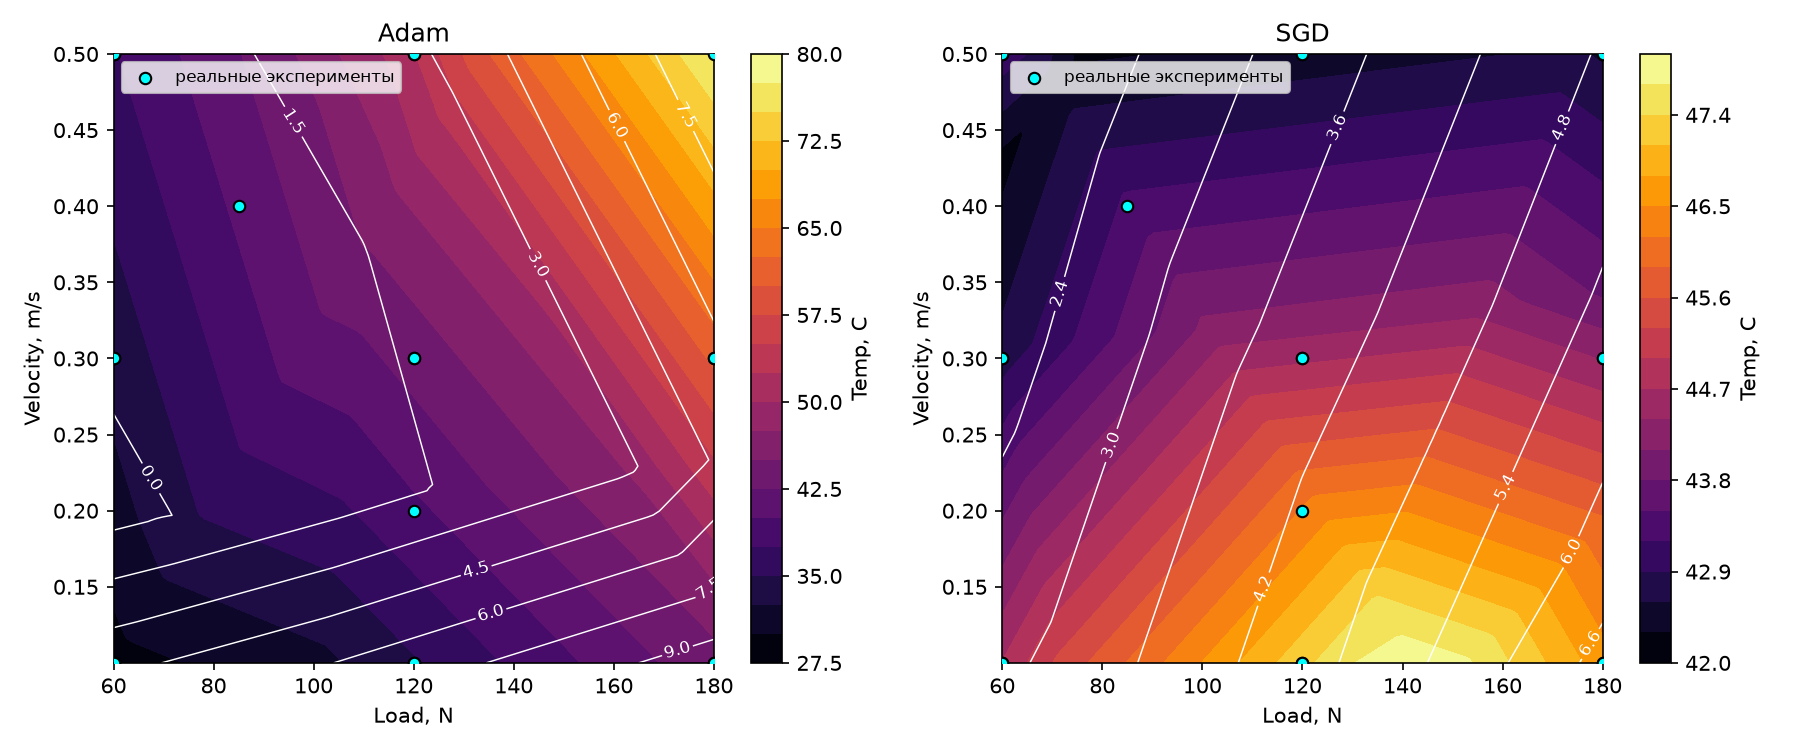
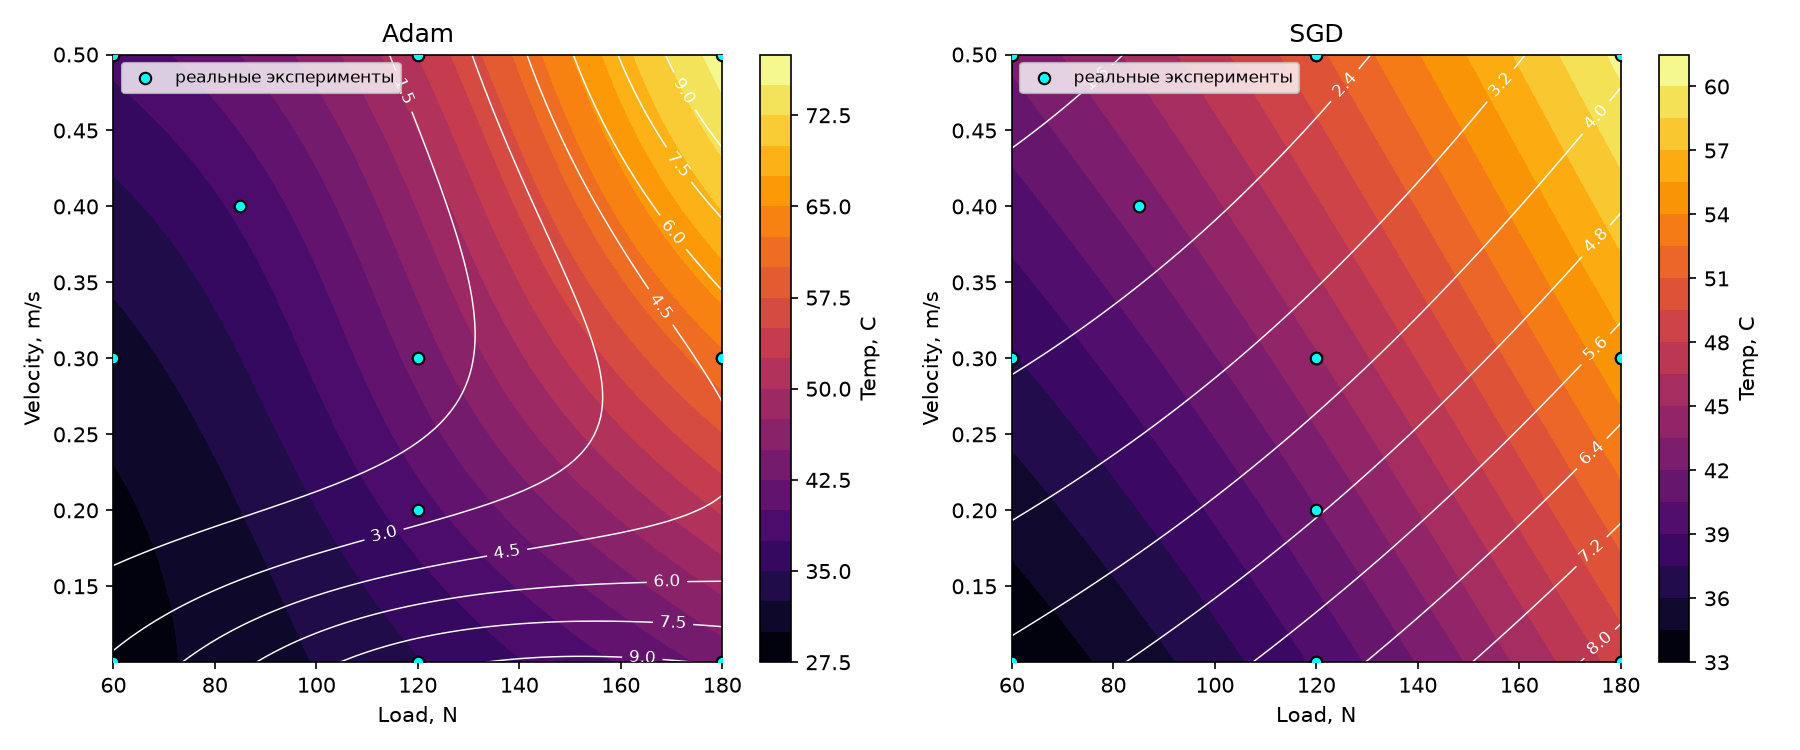
fixed architecture

diff --git a/friction.py b/friction.py
@@ -5,45 +5,60 @@ import matplotlib.pyplot as plt
 from data import X, Y
 from sklearn.model_selection import LeaveOneOut
 
+# правки:
+
+# добавил функцию активации на выходной слой нейронной сети, теперь сеть 
+# на выходе отдает числа в диапазоне [-1, 1]
+# что правильно для обратной нормализации
+
+# перевел индексы numpy в тензоры pytorch в валидации
+# зафиксировал seed при создании модели в цикле валидации
+
+# grid-norm неправильно нормализовывал данные (было [0,1])
+# а должно было быть [-1, 1] (потому что в X_norm [-1, 1])
+
+# (pred = ...): т.к. добавил функцию активации на выходной слой,
+# эта формула была неправильная (работала для [0, 1])
+
+# был перепутан LR в LOOCV (при создании модели был 0.01)
+# а при отрисовке графика LR был 0.05
+
+# добавил функцию для проверки точности сети в выбранной точке
+
+
+
+# исходные тензоры данных
 X_tensor = torch.tensor(X, dtype=torch.float32)
 Y_tensor = torch.tensor(Y, dtype=torch.float32)
 
-X_mean = X_tensor.mean(dim=0)
-X_std = X_tensor.std(dim=0, correction=0)
-
+# физические границы 
 X_normal = torch.tensor([[0, 0], [200, 0.6]])
 Y_normal = torch.tensor([[0, 24], [15, 100]])
 
+# экстремумы диапазонов
 min_val_P_V = X_normal.min(dim=0).values
 min_val_WR_T = Y_normal.min(dim=0).values
 
 max_val_P_V = X_normal.max(dim=0).values
 max_val_WR_T = Y_normal.max(dim=0).values
 
-X_norm = ((X_tensor - min_val_P_V) / (max_val_P_V - min_val_P_V))
-X_norm1 = X_norm * (max_val_P_V - min_val_P_V) + min_val_P_V
-
-print(X_norm)
-print(X_norm1)
-
-Y_mean = Y_tensor.mean(dim=0)
-Y_std = Y_tensor.std(dim=0, correction=0)
-
-Y_norm = ((Y_tensor - min_val_WR_T) / (max_val_WR_T - min_val_WR_T))
+X_norm = ((X_tensor - min_val_P_V) / (max_val_P_V - min_val_P_V)) * 2 - 1
+Y_norm = ((Y_tensor - min_val_WR_T) / (max_val_WR_T - min_val_WR_T)) * 2 - 1
 
 
 class FrictionMLP(nn.Module):
     def __init__(self):
         super().__init__()
-        self.hidden = nn.Linear(2, 17)
-        self.output = nn.Linear(17, 2)
-        self.activation = nn.ReLU()
+        self.hidden = nn.Linear(2, 8)
+        self.output = nn.Linear(8, 2)
+        self.activation = nn.Tanh()
 
     def forward(self, x):
         layer1_res = self.hidden(x)
         res = self.activation(layer1_res)
         layer2_res = self.output(res)
-        return layer2_res
+        final_res = self.activation(layer2_res)  # добавил сюда функцию активации
+        return final_res  # теперь возвращаем в нейронной сети числа [-1, 1]
     
 
 def train(model, optimizer, X, Y, criterion, epochs):
@@ -74,16 +89,21 @@ loss_history_adam = train(model_adam, optimizer_adam, X_norm, Y_norm, criterion,
 loss_history_sgd = train(model_sgd, optimizer_sgd, X_norm, Y_norm, criterion, epochs)
 
 
-
 def run_loocv(optimizer_class, lr, epochs):
     loo = LeaveOneOut()
     fold_losses = []
 
     for train_idx, val_idx in loo.split(X_norm):
-        X_train, X_val = X_norm[train_idx], X_norm[val_idx]
-        Y_train, Y_val = Y_norm[train_idx], Y_norm[val_idx]
+        # +перевод индексов numpy в тензоры pytorch
+        train_idx_tensor = torch.tensor(train_idx, dtype=torch.long)
+        val_idx_tensor = torch.tensor(val_idx, dtype=torch.long)
 
+        X_train, X_val = X_norm[train_idx_tensor], X_norm[val_idx_tensor]
+        Y_train, Y_val = Y_norm[train_idx_tensor], Y_norm[val_idx_tensor]
+
+        torch.manual_seed(42)  # фиксированный seed 
         model = FrictionMLP()
+
         optimizer = optimizer_class(model.parameters(), lr=lr)
 
         train(model, optimizer, X_train, Y_train, criterion, epochs)
@@ -96,33 +116,58 @@ def run_loocv(optimizer_class, lr, epochs):
 
     return fold_losses
 
-losses_adam = run_loocv(torch.optim.Adam, lr=0.05, epochs=500)
-losses_sgd = run_loocv(torch.optim.SGD, lr=0.05, epochs=500)
+# поправил LR
+losses_adam = run_loocv(torch.optim.Adam, lr=0.01, epochs=500)
+losses_sgd = run_loocv(torch.optim.SGD, lr=0.01, epochs=500)
+
+def predict_single(model, P, V):  # для проверки на выбранной точке
+    model.eval()
+
+    # нормализация входа в [-1, 1]
+    test_in = torch.tensor([[P, V]], dtype=torch.float32)
+    test_in_norm = ((test_in - min_val_P_V) / (max_val_P_V - min_val_P_V)) * 2 - 1
+
+    # прогноз модели
+    with torch.no_grad():
+        res_norm = model(test_in_norm)
+
+    # денормализация выхода из [-1, 1]
+    res = ((res_norm + 1) / 2) * (max_val_WR_T - min_val_WR_T) + min_val_WR_T
+    return res.numpy()[0]
+
+print("Прогноз Adam для [120, 0.2]:", predict_single(model_adam, 120, 0.2))
 
 print("Adam mean val loss:", sum(losses_adam) / len(losses_adam))
 print("SGD mean val loss:", sum(losses_sgd) / len(losses_sgd))
 
-P_range = np.linspace(X_tensor[:, 0].min(), X_tensor[:, 0].max(), 100)
+# генерация сетки
 V_range = np.linspace(X_tensor[:, 1].min(), X_tensor[:, 1].max(), 100)
+P_range = np.linspace(X_tensor[:, 0].min(), X_tensor[:, 0].max(), 100)
 P_grid, V_grid = np.meshgrid(P_range, V_range)
 
 grid_points = np.column_stack([P_grid.ravel(), V_grid.ravel()])
 grid_tensor = torch.tensor(grid_points, dtype=torch.float32)
-grid_norm = (grid_tensor - min_val_P_V) / (max_val_P_V - min_val_P_V)
+
+# нормализуем сетку, как и обучающую выборку ([-1, 1])
+grid_norm = (grid_tensor - min_val_P_V) / (max_val_P_V - min_val_P_V) * 2 - 1
 
 def predict_grid(model):
+    model.eval()  # переводим модель в режим оценки (не обучающий)
     with torch.no_grad():
         pred_norm = model(grid_norm)
-    pred = pred_norm * (max_val_WR_T - min_val_WR_T) + min_val_WR_T
+
+    # поправил денормализацию из диапазона [-1, 1] в реальные физ. единицы
+    pred = ((pred_norm + 1) / 2) * (max_val_WR_T - min_val_WR_T) + min_val_WR_T
+
     WR_pred = pred[:, 0].numpy().reshape(P_grid.shape)
     T_pred = pred[:, 1].numpy().reshape(P_grid.shape)
     return WR_pred, T_pred
 
+# корректные физические предсказания
 WR_adam, T_adam = predict_grid(model_adam)
 WR_sgd, T_sgd = predict_grid(model_sgd)
 
 fig, axes = plt.subplots(1, 2, figsize=(12, 5))
-
 for ax, T_pred, WR_pred, title in zip(axes, [T_adam, T_sgd], [WR_adam, WR_sgd], ['Adam', 'SGD']):
     cf = ax.contourf(P_grid, V_grid, T_pred, levels=20, cmap='inferno')
     cl = ax.contour(P_grid, V_grid, WR_pred, levels=8, colors='white', linewidths=0.7)

diff --git a/data.py b/data.py
@@ -21,9 +21,9 @@ X = [
 ]
 
 Y = [
-    [2.99093333333333, 30],
+    [2.99093333333333, 30.4],
     [3.20849066666667, 32],
-    [0.768405333333333, 43],
+    [0.768405333333333, 42.7],
     [0.739644444444444, 33],
     [8.66348444444444, 34],
     [8.72380952380952, 35],
